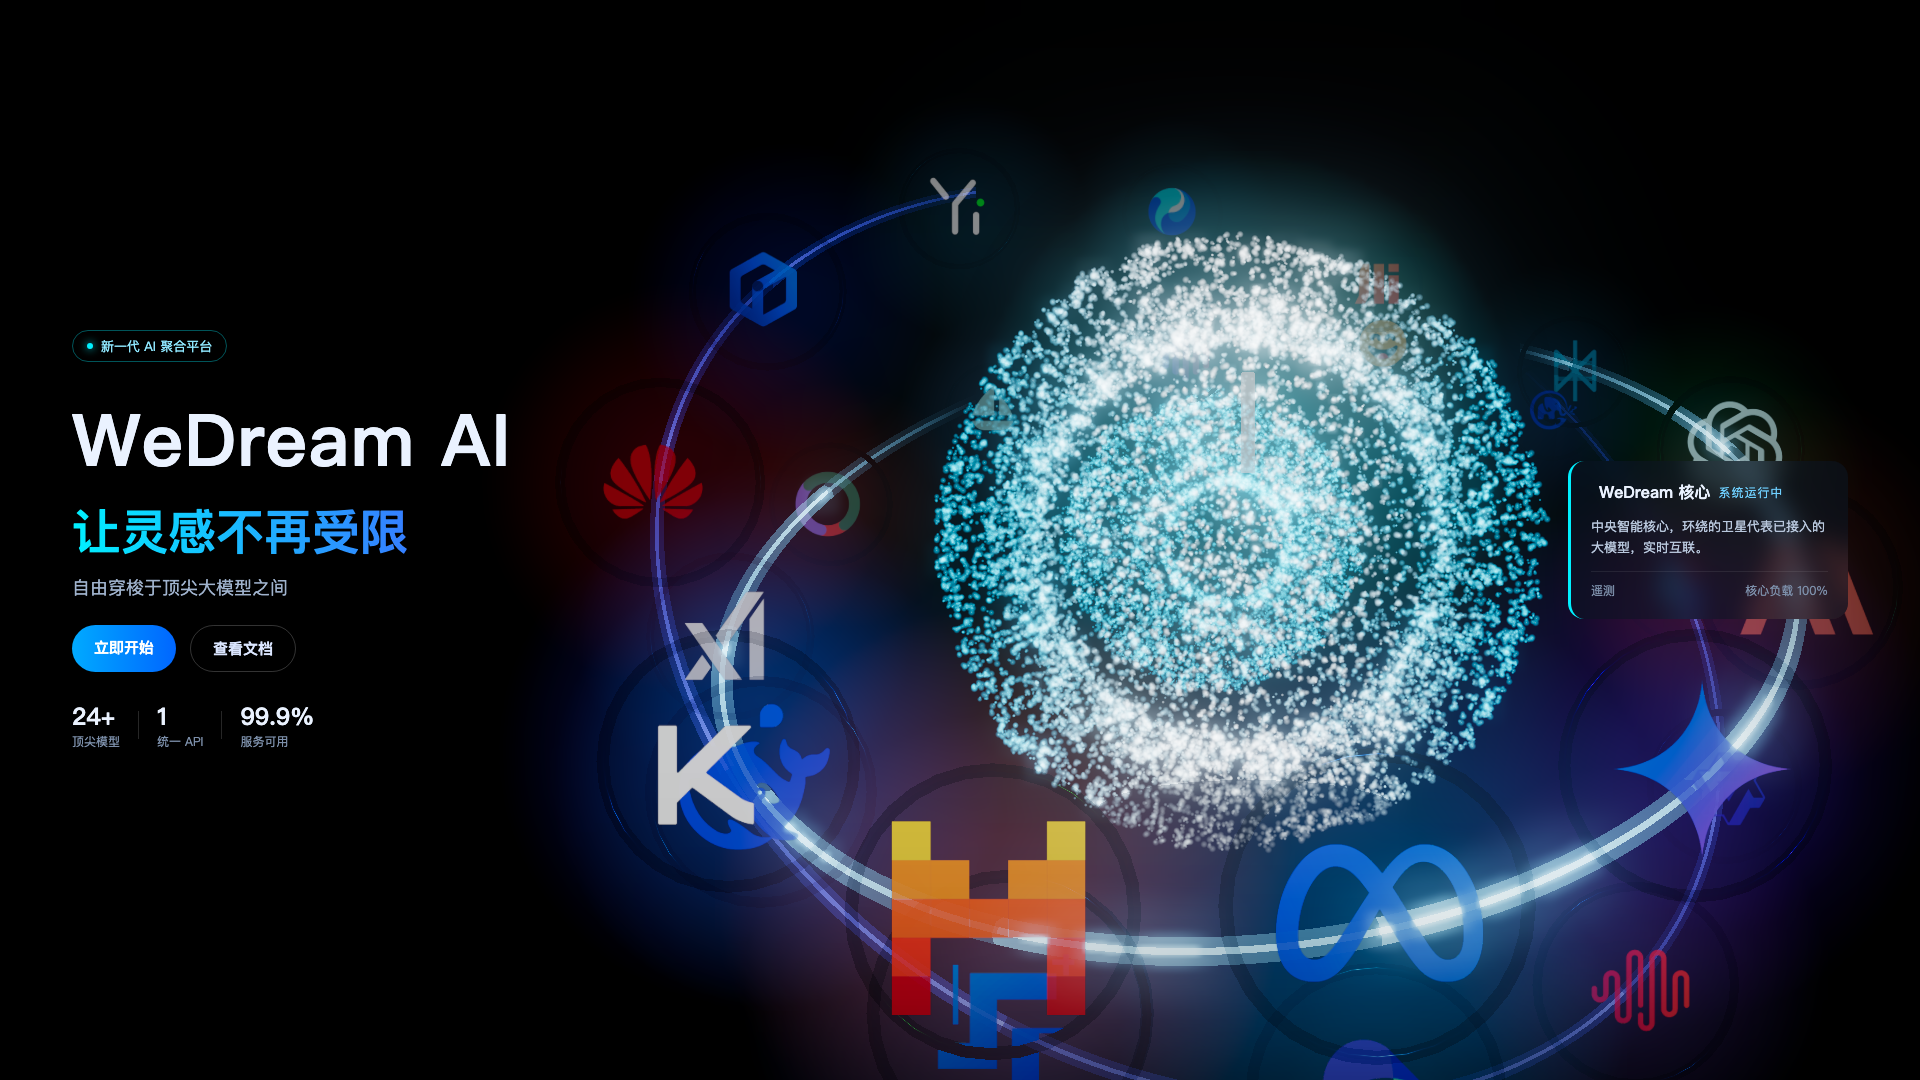
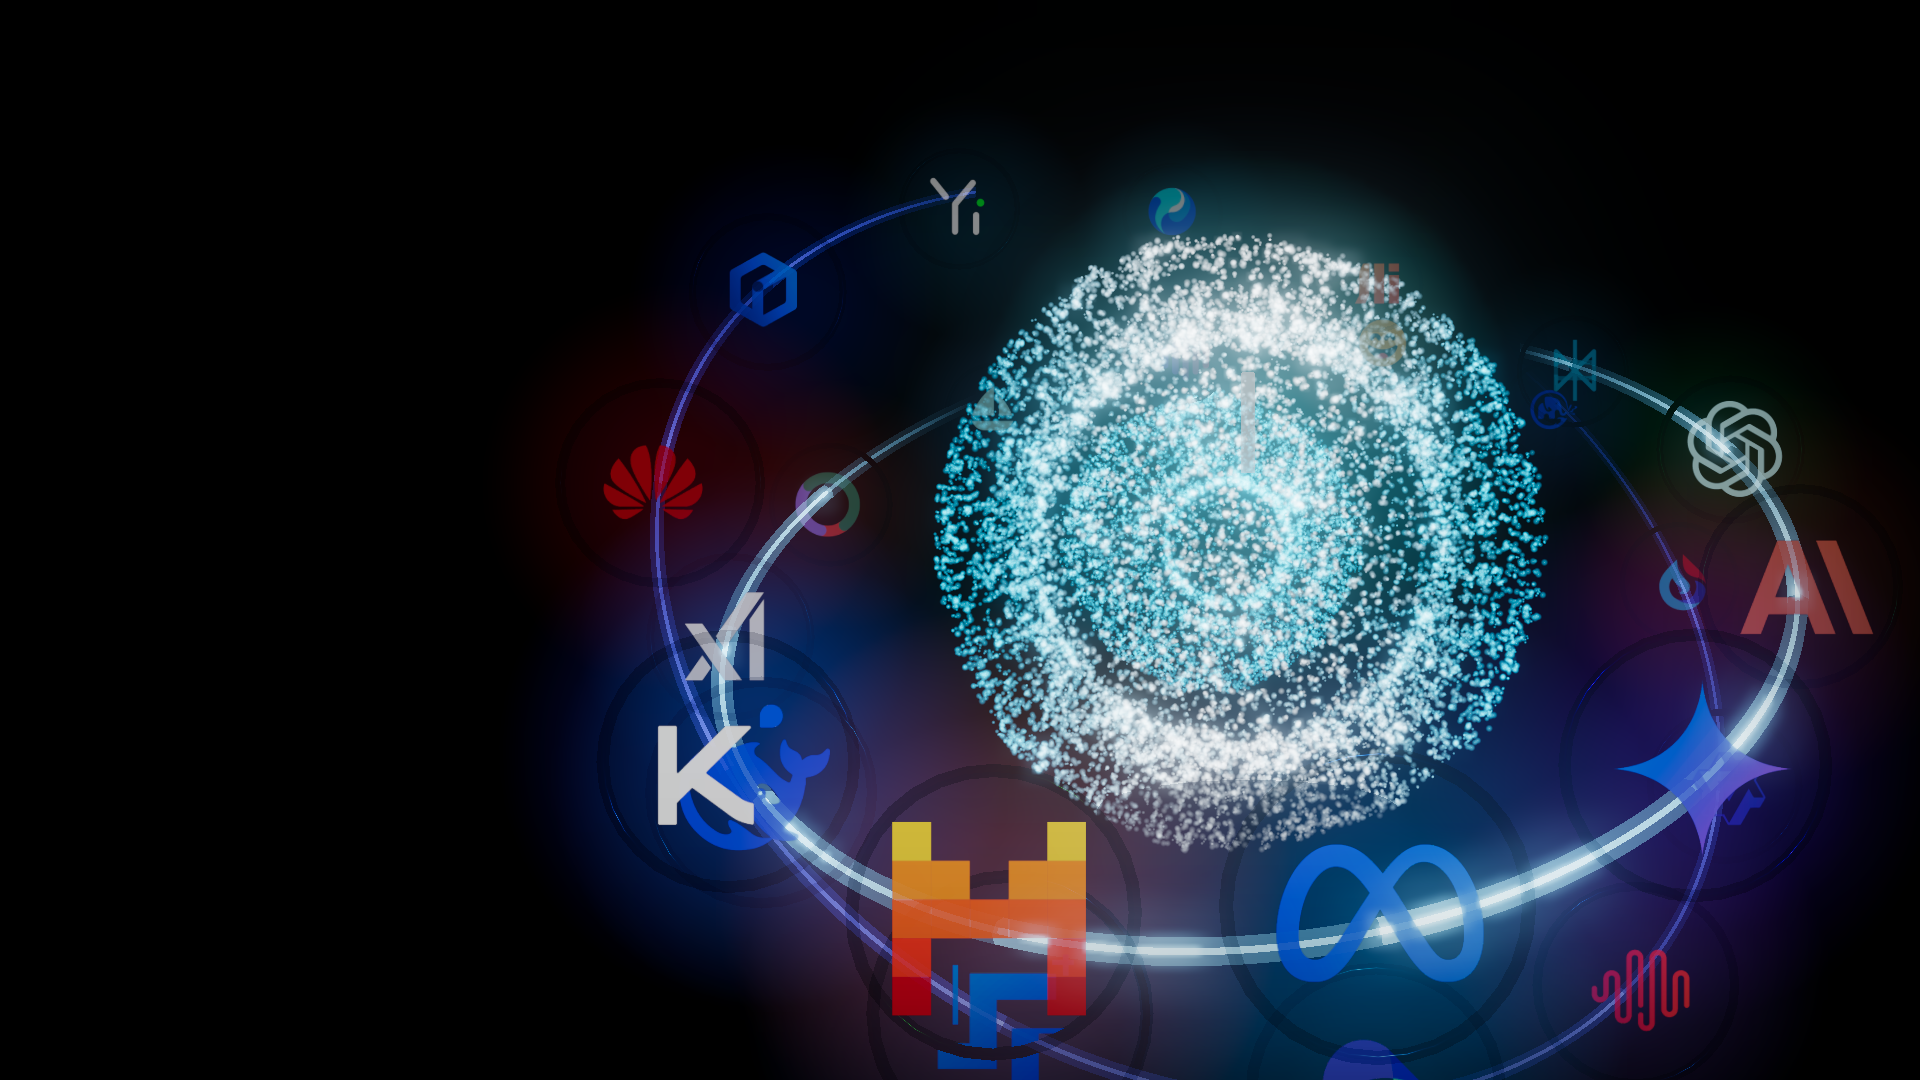
fix(landing): canvas-only fallback poster + readable mobile copy scrim
- public/poster.png: swap full-page capture (had brand copy/HUD baked in,
  duplicated the live DOM at ?nowebgl) for a canvas-only 1920x1080 render
  of the bulb/orbits/satellites on black.
- src/style.css: add a mobile-only (<1024px) .hero::before gradient scrim
  so the top copy (title/slogan/sub/CTAs/metrics) stays legible over the
  full-bleed bulb, which sits horizontally off-center but vertically
  centered on all breakpoints (applyViewOffset has no Y offset). Desktop
  is untouched (rule only exists inside the <1024px media query).

diff --git a/bulb-orbit/v2/src/style.css b/bulb-orbit/v2/src/style.css
@@ -53,6 +53,36 @@ html,body { margin:0; height:100%; background:var(--bg); color:#eaf2ff;
   .hero-stage { height:60vh; }
   .hero-right { justify-content:center; }
   .hud { width:min(92vw,360px); }
+
+  /* 灯泡贴脸可读性修复（Task 12 视觉门缺陷 2）：scene.ts 的 applyViewOffset() 在所有断点都无条件
+     生效，灯泡视觉中心固定在屏宽 x≈62–65%、纵向不偏移（offsetY 恒 0，亮核落在屏幕纵向正中附近）。
+     桌面靠 2fr:2fr:1fr 三栏布局天然把左栏文案让到灯泡左侧留白区；但上面这条 <1024px 规则把 .hero
+     退化成单列通栏后，hero-left 文案块占满全宽，与灯泡水平中心带直接重叠，实测亮核正好压在
+     hero-left 底部的数据指标行上。这里加一层 .hero::before 顶部渐变暗幕，把文案所在区域压暗、往下
+     渐隐到透明，让灯泡在 hero-stage/hero-right 一带的下半部分仍然清晰可见：
+       - position:absolute + inset:0 以 .hero 自身（基础规则已 position:relative）为定位容器，取
+         .hero 自己的 100vh 盒高（不是滚动后的内容高度），随 .hero 的 overflow-y:auto 一起滚动——
+         文案滚出视口时暗幕跟着一起滚走，滚到底部自带 backdrop-filter 毛玻璃背景的 .hud 卡片不需要
+         它，不会被误伤。绝对定位不产生新的行盒，不会撑大 .hero 的可滚动内容高度（不影响既有的
+         296px 滚动范围）。
+       - z-index:-1 只在 .hero 自己建立的层叠上下文内部生效（.hero 有 z-index:2，是独立层叠上下文
+         的根）：暗幕仍随 .hero 整体叠在 canvas/vignette（层叠上下文外、z-index:auto）之上，同时又
+         压在 hero-left/hero-right 默认 z-index:auto 的文字/按钮之下——纯背景装饰，不挡点击。
+       - 只用渐变、不用 backdrop-filter：大面积模糊在低端移动 GPU 上开销明显，Task 12 本身就是靠
+         降粒子数/关 bloom 换移动端性能，这里不该加回一块大面积高开销滤镜；纯渐变已经够用。
+       - 桌面（≥1024px）没有对应规则，.hero::before 在桌面宽度下不生成，桌面视觉零改动。 */
+  .hero::before {
+    content: '';
+    position: absolute;
+    inset: 0;
+    z-index: -1;
+    pointer-events: none;
+    background: linear-gradient(to bottom,
+      rgba(1,4,10,.86) 0%,
+      rgba(1,4,10,.8) 30%,
+      rgba(1,4,10,.5) 45%,
+      rgba(1,4,10,0) 62%);
+  }
 }
 @media (max-width:767px) {
   #brand-title { font-size:34px; } .slogan { font-size:26px; }
